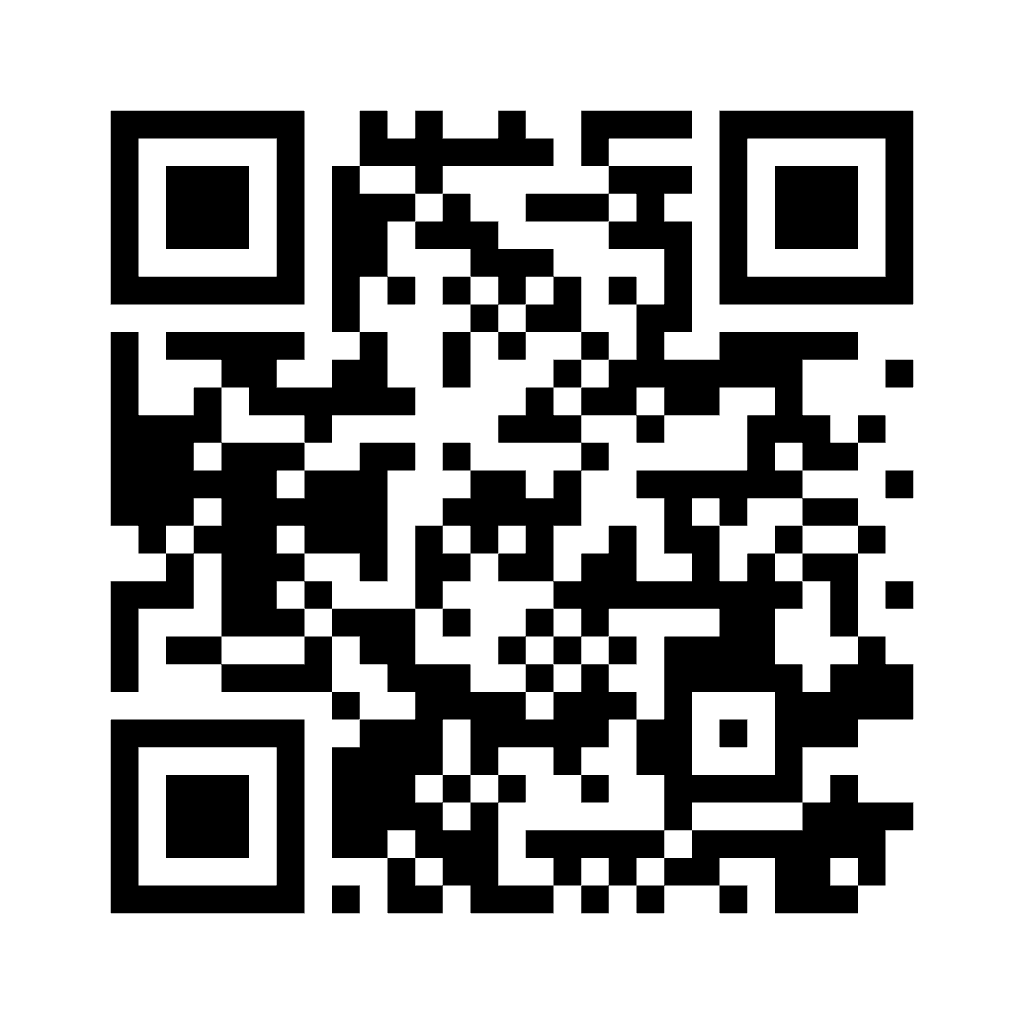
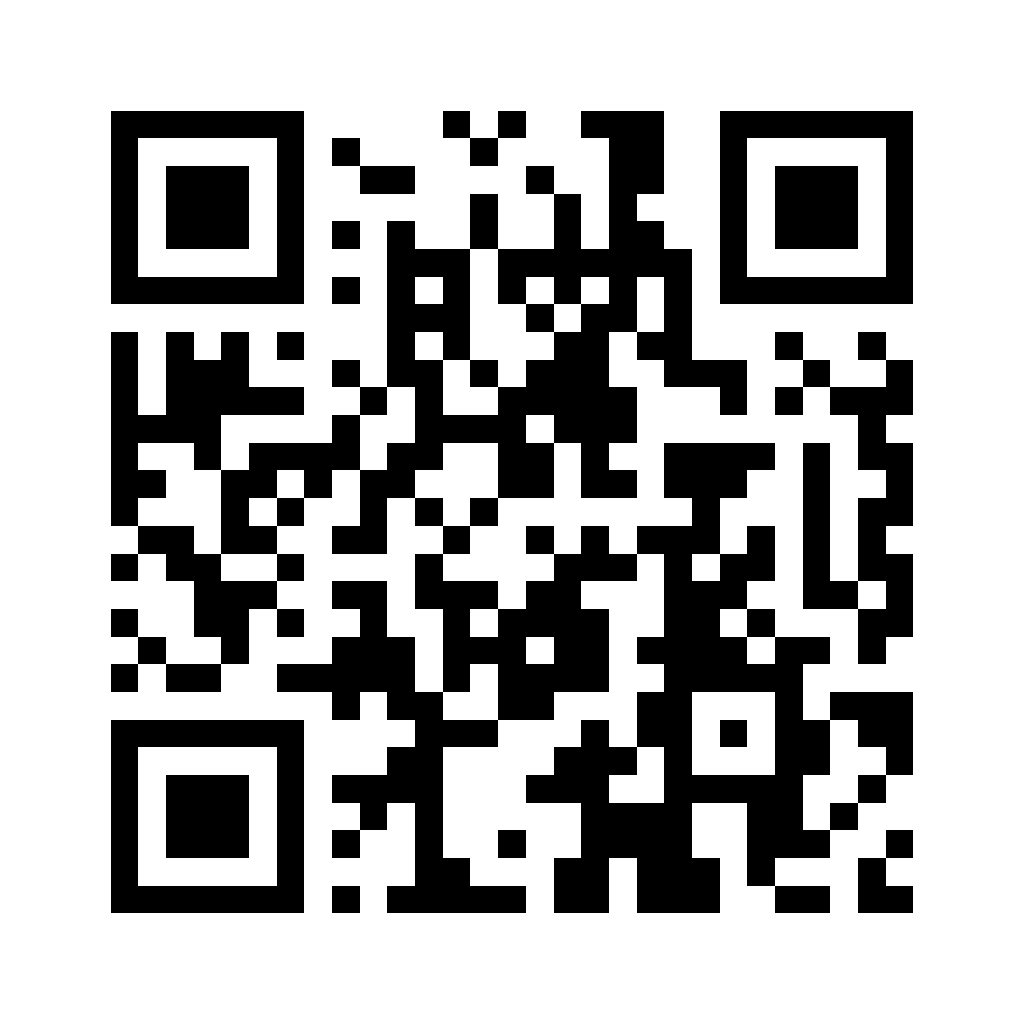
Point the portal links and QR to portal.cfdeconnect.org
All portal buttons, the footer link, and the QR code now go to the
portal home (https://portal.cfdeconnect.org/) instead of /fall26,
matching the printed portal flyer. The QR image is regenerated for the
new address.

Changed region(s): [[0.0938, 0.0938, 0.9062, 0.9062]]

diff --git a/index.html b/index.html
@@ -141,7 +141,7 @@
           </ol>
 
           <div class="portal__actions">
-            <a class="btn btn--primary btn--lg" href="https://portal.cfdeconnect.org/fall26" target="_blank" rel="noopener">
+            <a class="btn btn--primary btn--lg" href="https://portal.cfdeconnect.org/" target="_blank" rel="noopener">
               Open the meeting portal
               <svg viewBox="0 0 24 24" aria-hidden="true"><path d="M5 12h13M12 5l7 7-7 7"/></svg>
             </a>
@@ -152,8 +152,8 @@
 
         <figure class="portal__qr">
           <img src="assets/portal-qr.png" width="1024" height="1024" loading="lazy"
-               alt="QR code linking to the CFDE Fall 2026 meeting portal at portal.cfdeconnect.org/fall26">
-          <figcaption><b>Scan to open the portal</b>portal.cfdeconnect.org/fall26</figcaption>
+               alt="QR code linking to the CFDE Fall 2026 meeting portal at portal.cfdeconnect.org">
+          <figcaption><b>Scan to open the portal</b>portal.cfdeconnect.org</figcaption>
         </figure>
       </div>
 
@@ -732,7 +732,7 @@
     <div class="wrap closing__inner">
       <h2>See you in La Jolla</h2>
       <p>October 13–14, 2026 · UC San Diego</p>
-      <a class="btn btn--invert btn--lg" href="https://portal.cfdeconnect.org/fall26" target="_blank" rel="noopener">
+      <a class="btn btn--invert btn--lg" href="https://portal.cfdeconnect.org/" target="_blank" rel="noopener">
         Open the meeting portal
         <svg viewBox="0 0 24 24" aria-hidden="true"><path d="M5 12h13M12 5l7 7-7 7"/></svg>
       </a>
@@ -762,7 +762,7 @@
       <a href="https://cfdeconnect.org/" target="_blank" rel="noopener">CFDE CONNECT</a>
       <a href="https://cfde.cloud/" target="_blank" rel="noopener">CFDE Data Portal</a>
       <a href="#agenda">Agenda</a>
-      <a href="https://portal.cfdeconnect.org/fall26" target="_blank" rel="noopener">Meeting portal</a>
+      <a href="https://portal.cfdeconnect.org/" target="_blank" rel="noopener">Meeting portal</a>
     </nav>
   </div>
   <div class="wrap foot__legal">

diff --git a/README.md b/README.md
@@ -89,7 +89,7 @@ Everything is plain HTML in `index.html`, no templating.
 - **Room guide** — `<ul class="rooms">` in the Venue section repeats which sessions use
   which room. Update it whenever a room assignment changes in the agenda.
 - **Meeting portal** — the `#portal` section (where the registration block used to be)
-  promotes portal.cfdeconnect.org/fall26: invite notice, four sign-up steps taken from the
+  promotes portal.cfdeconnect.org: invite notice, four sign-up steps taken from the
   portal flyer, an "Open the meeting portal" button, and `assets/portal-qr.png` (shown on
   desktop only, since phone visitors are already on their phone). Registration closed on
   October 2; late requests go to `cfde.icc@gmail.com` (one line under the portal card).
